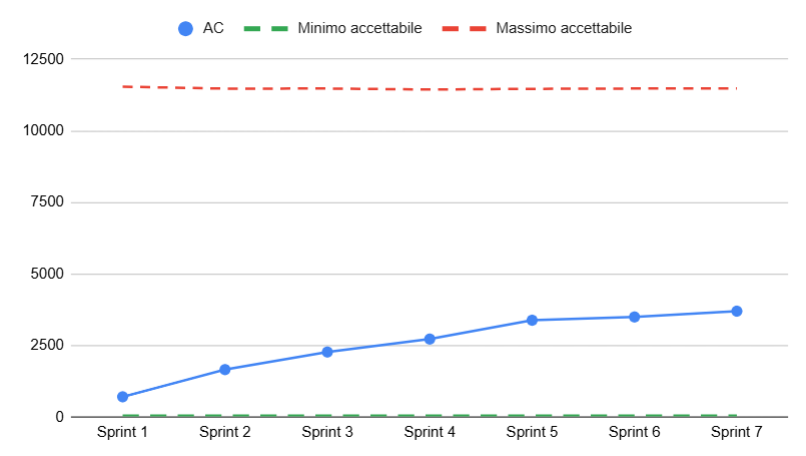
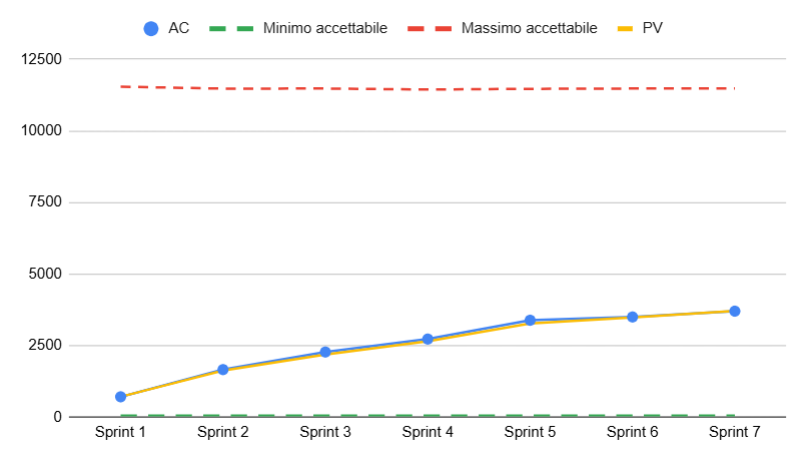
change: aggiornati commenti

diff --git a/Docs/Generali/piano_di_qualifica/05_resoconto.tex b/Docs/Generali/piano_di_qualifica/05_resoconto.tex
@@ -36,7 +36,7 @@ Di seguito sono presentati i grafici relativi a diverse metriche significative d
     template/images/AC.png
 }
 { % DESCRIZIONE RTB
-    Come il grafico fa notare il confronto con il Planned Value rivela una forte correlazione, suggerendo che le ore e i costi effettivamente impiegati per ogni ruolo sono in linea con le previsioni iniziali.
+    Come si nota dal grafico, Actual Cost e Planned Value hanno una forte correlazione, suggerendo che le ore e i costi effettivamente impiegati per ogni ruolo sono in linea con le previsioni iniziali.
     Ciò indica una pianificazione accurata e una buona esecuzione del progetto.
 }
 
@@ -50,7 +50,7 @@ Di seguito sono presentati i grafici relativi a diverse metriche significative d
 { % DESCRIZIONE RTB
     Questo grafico illustra solamente il valore di Earned Value che rappresenta il valore delle attività realizzate nel progetto.
     Da solo rientra tra i valori limite, e rappresenta un valor positivo, ma spesso viene messo a confronto con le altre metriche.
-    Analizzando quindi i 3 grafici di Earned Value, Planned Value e Actual Cost si può notare come siano tutti allineati. 
+    Analizzando quindi i tre grafici di Earned Value, Planned Value e Actual Cost, si può notare come siano tutti allineati. 
     Questo indica una gestione del progetto accurata, con una precisa corrispondenza tra le attività pianificate, quelle effettivamente svolte e i costi sostenuti.
 }
 
@@ -87,8 +87,10 @@ Di seguito sono presentati i grafici relativi a diverse metriche significative d
     template/images/CV.png
 }
 { % DESCRIZIONE RTB
-    L'analisi del grafico evidenzia una sovrastima iniziale delle ore necessarie per completare le attività.
-    Con il progredire del progetto, il team ha affinato le proprie stime, acquisendo una maggiore consapevolezza dei tempi di esecuzione e delle competenze individuali.
+    Una Cost Variance negativa indica che il progetto sta spendendo più di quanto previsto. 
+    Ciò è dovuto principalmente al fatto che i ruoli più ricoperti sono quelli di responsabile, 
+    amministratore, e analista che hanno un costo orario superiore alla media.
+    Infatti, nello sprint 4, in cui è stato realizzato il PoC dai programmatore, la Cost Variance è stata positiva.
 }
 
 \Met
@@ -125,7 +127,7 @@ Di seguito sono presentati i grafici relativi a diverse metriche significative d
 { % DESCRIZIONE RTB
     Il grafico mostra un iniziale Requirements Stability Index del 100\% in quanto nei primi due periodi il team si è
     concentrato sulla creazione e successivo aggiornamento di un WoW. 
-    È stato solo dal terzo sprint in poi che il team ha iniziato ad analizzare e successivamente raffinare i requisiti, rendendoli più chiari e comprensibili per facilitare le successive fasi di progettazione.
+    È stato solo dal terzo sprint in poi che il team ha iniziato a definire i requisiti.
 }
 
 \Met
@@ -151,6 +153,7 @@ Di seguito sono presentati i grafici relativi a diverse metriche significative d
 { % DESCRIZIONE RTB
     Come mostra il grafico, l'iniziale carenza di competenze ha limitato la capacità del team di soddisfare tutte le metriche.
     Grazie all'apprendimento continuo e all'introduzione di strumenti automatizzati, il team ha colmato queste lacune apportando delle migliorie ai vari documenti.
+    L'unica metrica non soddisfatta attualmente è MPC6 - Cost Variance.
 }
 
 \Met
@@ -161,14 +164,14 @@ Di seguito sono presentati i grafici relativi a diverse metriche significative d
     template/images/RISCHI.png
 }
 { % DESCRIZIONE RTB
-    Il grafico evidenzia una notevole stabilità dei rischi non previsti durante l'intero progetto.
-    Questo è ovviamente un ottimo segno in quanto indica che il gruppo è stato in grado di gestire i rischi in modo efficace e che non sono 
-    emersi nuovi rischi inaspettati.
+    Il grafico evidenzia l'assenza di rischi non previsti durante l'intero progetto.
+    Questo è ovviamente un buon segno in quanto indica che il gruppo è stato in grado 
+    di gestire i rischi in modo efficace e che non sono emersi nuovi rischi inaspettati.
 }
 
 \subsection{Verifica della qualità dei prodotti}
 In questa sezione vengono analizzate le attività svolte per garantire la qualità dei prodotti realizzati.
- Le analisi effettuate comprendono sia i documenti che il software, al fine di garantire un risultato finale che soddisfi i requisiti stabiliti.\\
+Le analisi effettuate comprendono sia i documenti che il software, al fine di garantire un risultato finale che soddisfi i requisiti stabiliti.\\
 Per calcolare le seguenti misure abbiamo utilizzato le formule e le nozioni descritte nel documento di \textit{Norme di progetto v1.0.0}.
 
 \Met
@@ -179,8 +182,10 @@ Per calcolare le seguenti misure abbiamo utilizzato le formule e le nozioni desc
     template/images/GUL.png
 }
 { % DESCRIZIONE RTB
-    L'analisi del grafico conferma che, nelle prime fasi del progetto, l'Indice di Gulpease non ha raggiunto i valori minimi, a causa della mancanza di conoscenze specifiche da parte del team.
-    Solo dopo aver implementato un'automazione per il calcolo dell'indice, è stato possibile migliorarne i risultati nei periodi successivi.
+    L'analisi del grafico conferma che, nelle prime fasi del progetto, l'Indice di Gulpease non ha raggiunto i 
+    valori minimi, a causa della mancanza di conoscenze specifiche da parte del team.
+    Solo dopo aver implementato un'automazione per il calcolo dell'indice, è stato possibile 
+    migliorarne i risultati nei periodi successivi.
 }
 
 \Met
@@ -191,8 +196,10 @@ Per calcolare le seguenti misure abbiamo utilizzato le formule e le nozioni desc
     template/images/ERR-G.png
 }
 { % DESCRIZIONE RTB
-    L'analisi del grafico rivela un numero inizialmente elevato di errori ortografici, in particolare nei documenti \textit{Norme di progetto v1.0.0} e \textit{Piano di progetto v1.0.0}.
-    Tuttavia, si osserva una netta diminuzione di tali errori nei periodi e nei documenti successivi, indicando un miglioramento progressivo nella qualità della scrittura.
+    L'analisi del grafico rivela un numero inizialmente elevato di errori ortografici, 
+    in particolare nei documenti \textit{Norme di progetto v1.0.0} e \textit{Piano di progetto v1.0.0}.
+    Tuttavia, si osserva una netta diminuzione di tali errori nei periodi e nei 
+    documenti successivi, indicando un miglioramento progressivo nella qualità della scrittura.
 }
 
 
